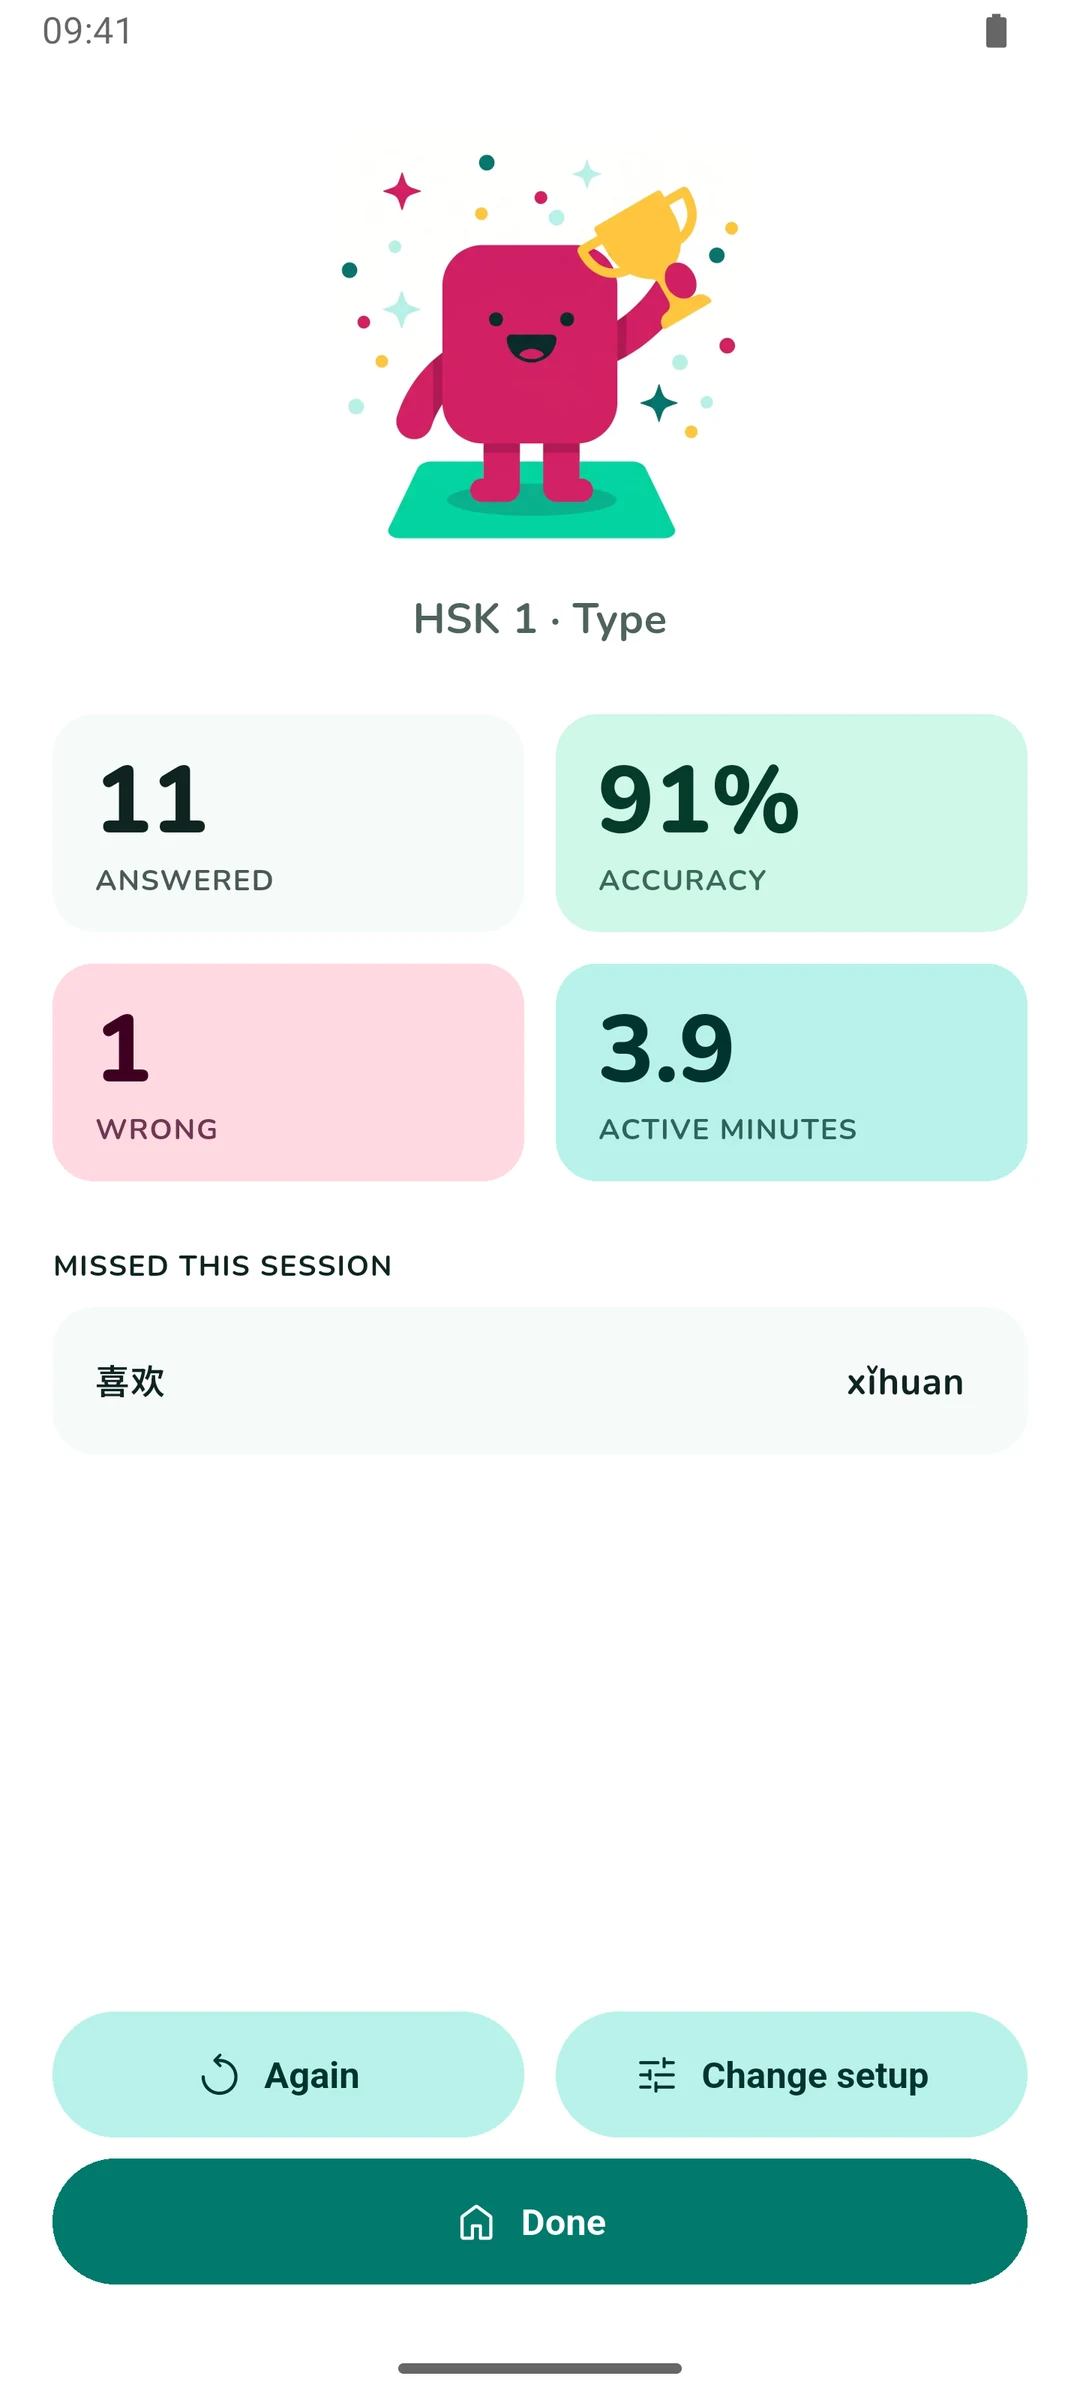
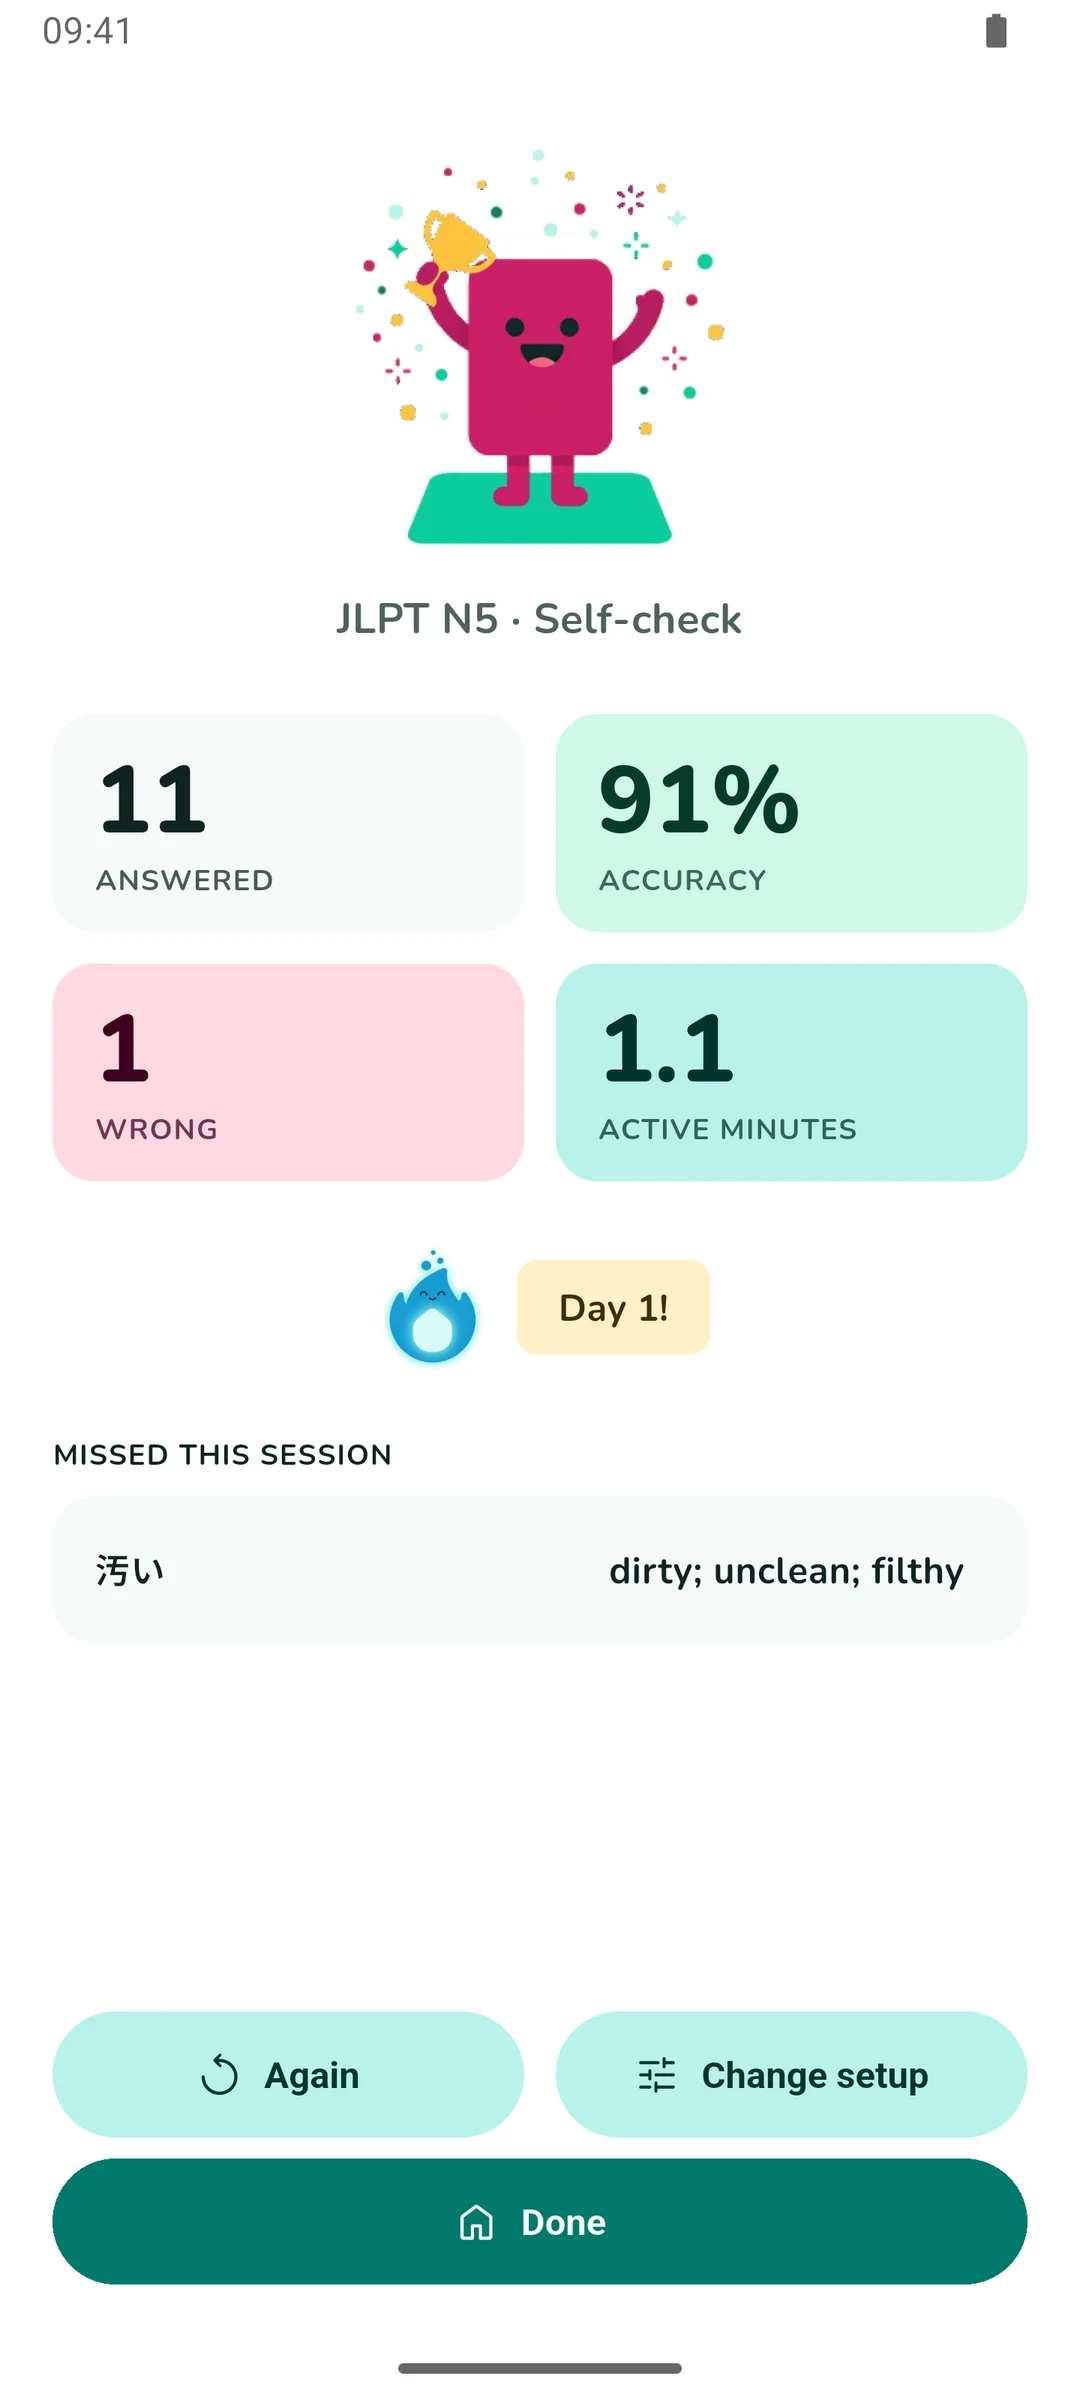
Screenshots: setup, results, choices and self-check re-shot on QIZU 1.4.0+23
The redrawn mascot (new Test Setup art with the Games mode, the new results
trophy, redrawn test buddies); alt texts follow the new frames.

diff --git a/index.html b/index.html
@@ -973,7 +973,7 @@ footer .copy{margin-left:auto;color:var(--ink-variant);font-size:.9rem}
 
     <div class="shots two" style="margin-inline:auto">
       <figure class="shot">
-        <div class="frame"><img src="img/shot-results.webp" alt="The results screen after a session: 11 answered, 91 % accuracy, 1 wrong, 3.9 active minutes, and the missed card listed with its answer." width="540" height="1200" loading="lazy"></div>
+        <div class="frame"><img src="img/shot-results.webp" alt="The results screen after a session: 11 answered, 91 % accuracy, 1 wrong, 1.1 active minutes, a Day 1 streak flame, and the missed card listed with its answer." width="540" height="1200" loading="lazy"></div>
         <figcaption>After a session</figcaption>
       </figure>
       <figure class="shot">
@@ -998,7 +998,7 @@ footer .copy{margin-left:auto;color:var(--ink-variant);font-size:.9rem}
         <figcaption>Your library</figcaption>
       </figure>
       <figure class="shot">
-        <div class="frame"><img src="img/shot-setup.webp" alt="The test setup sheet: Ask and Answer side pickers, a mode row of Type, Choices and Self-check, a length row of 10 to 200 and infinity, a focus row of All, Tricky and New, and a retry-missed switch." width="540" height="1200" loading="lazy"></div>
+        <div class="frame"><img src="img/shot-setup.webp" alt="The test setup sheet over the library: Ask and Answer side pickers, a mode row of Type, Choices, Self-check and Games, a length row of 10 to 200 and infinity, and a Start button." width="540" height="1200" loading="lazy"></div>
         <figcaption>Set up a round</figcaption>
       </figure>
       <figure class="shot">
@@ -1010,11 +1010,11 @@ footer .copy{margin-left:auto;color:var(--ink-variant);font-size:.9rem}
         <figcaption>Wrong</figcaption>
       </figure>
       <figure class="shot">
-        <div class="frame"><img src="img/shot-choices.webp" alt="Multiple choice: the country Kazakhstan with four capital options and an I don't know button." width="540" height="1200" loading="lazy"></div>
+        <div class="frame"><img src="img/shot-choices.webp" alt="Multiple choice: the country Nepal with four capital options and an I don't know button." width="540" height="1200" loading="lazy"></div>
         <figcaption>Choices</figcaption>
       </figure>
       <figure class="shot">
-        <div class="frame"><img src="img/shot-selfcheck.webp" alt="Self-check: a card turned to its English side reading the day before yesterday, with a play button to hear it and Don't know and Know it buttons below." width="540" height="1200" loading="lazy"></div>
+        <div class="frame"><img src="img/shot-selfcheck.webp" alt="Self-check: a card turned to its English side reading automobile, with a play button to hear it and Don't know and Know it buttons below." width="540" height="1200" loading="lazy"></div>
         <figcaption>Self-check</figcaption>
       </figure>
       <figure class="shot">
